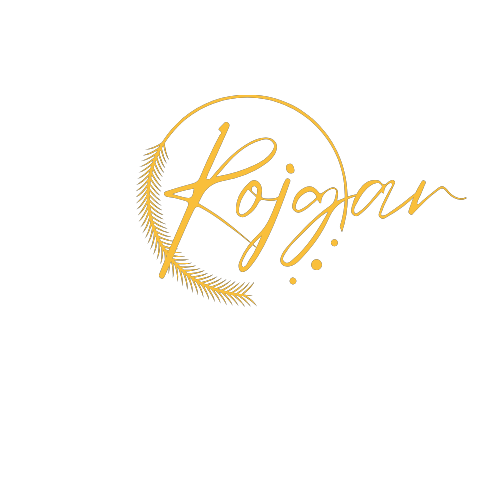
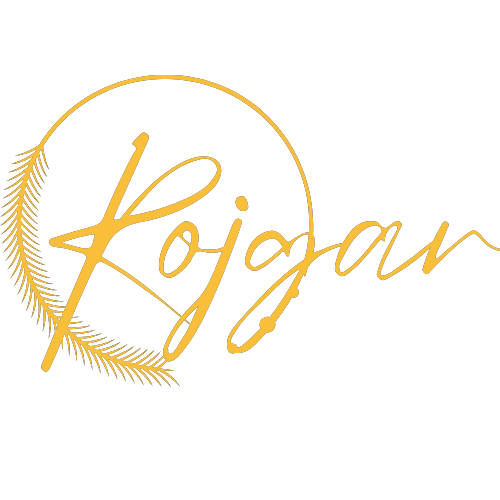
changed frontend

diff --git a/src/Components/Header.js b/src/Components/Header.js
@@ -1,45 +1,60 @@
-import React, { useContext, useEffect } from 'react'
-import './Css/Header.css'
-import { Link, useNavigate } from 'react-router-dom'
-import { loginContext } from '../App'
-import { get_data, remove_data } from '../Utils/services'
-import jwt_decode from 'jwt-decode'
+import React, { useContext, useEffect } from 'react';
+import './Css/Header.css';
+import { Link, useNavigate } from 'react-router-dom';
+import { loginContext } from '../App';
+import { get_data, remove_data } from '../Utils/services';
+import jwt_decode from 'jwt-decode';
+import logo from '../assets/log.png';
 
 function Header() {
-    const [user,setUser] = useContext(loginContext)
-    const navigate = useNavigate()
-    useEffect(()=>{
-        if(get_data()){
-            setUser(jwt_decode(get_data()))
-        }
-    },[])
-    const logoutuser = ()=>{
-        remove_data()
-        navigate('/login')
-    }
-  return (
-    <nav class="navbar navbar-expand-lg navbar-light ">
-        <div class="collapse navbar-collapse d-flex justify-content-between" id="navbarTogglerDemo01">
-            <a class="navbar-brand main-heading" style={{fontSize: '24px'}}>ROJGAR <img className='vector ml-2' src={require('../assets/log.png')} /></a>
-            <ul class="navbar-nav  mt-2 mt-lg-0">
-            <li class="nav-item mr-lg-3">
-                <Link to='/'><a class="nav-link" style={{fontSize: '20px'}} href="#">Home <span class="sr-only">(current)</span></a></Link>
-            </li>
-            <li class="nav-item mr-lg-3">
-                <Link to="/jobs"><a class="nav-link" style={{fontSize: '20px'}} href="#">Jobs</a></Link>
-            </li>
-            <li class="nav-item">
-                <Link to="/dashboard"><a class="nav-link" style={{fontSize: '20px'}} href="#">Dashboard</a></Link>
-            </li>
-            </ul>
-            {!user?
-                <Link to="/login"><button class="btn btnL my-2 my-sm-0" type="submit">Login</button></Link>
-            :
-                <button class="btn btnL my-2 my-sm-0" onClick={logoutuser} type="submit">Logout</button>
+    const [user, setUser] = useContext(loginContext);
+    const navigate = useNavigate();
+
+    useEffect(() => {
+        const fetchData = async () => {
+            if (get_data()) {
+                setUser(jwt_decode(get_data()));
             }
-        </div>
-    </nav>
-  )
+        };
+
+        fetchData(); // Call the fetchData function inside useEffect
+
+        // Include setUser and navigate in the dependency array
+    }, [setUser, navigate]); // Add setUser and navigate to the dependency array
+
+    const logoutUser = () => {
+        remove_data();
+        setUser(null);
+        navigate('/login');
+    };
+
+    return (
+        <nav className="navbar navbar-expand-lg navbar-light ">
+            <div className="collapse navbar-collapse d-flex justify-content-between" id="navbarTogglerDemo01">
+            <Link to="/" className="navbar-brand main-heading" style={{ fontSize: '24px' }}>
+                    ROJGAR <img className='vector ml-2' src={logo} alt='Logo' style={{ width: '100px', height: '100px' }} />
+                </Link>
+                <ul className="navbar-nav mt-2 mt-lg-0">
+                    <li className="nav-item mr-lg-3">
+                        <Link to="/" className="nav-link" style={{ fontSize: '20px' }}>Home</Link>
+                    </li>
+                    <li className="nav-item mr-lg-3">
+                        <Link to="/jobs" className="nav-link" style={{ fontSize: '20px' }}>Jobs</Link>
+                    </li>
+                    <li className="nav-item">
+                        <Link to="/dashboard" className="nav-link" style={{ fontSize: '20px' }}>Dashboard</Link>
+                    </li>
+                </ul>
+                {!user ? (
+                    <Link to="/login">
+                        <button className="btn btnL my-2 my-sm-0" type="submit">Login</button>
+                    </Link>
+                ) : (
+                    <button className="btn btnL my-2 my-sm-0" onClick={logoutUser} type="submit">Logout</button>
+                )}
+            </div>
+        </nav>
+    );
 }
 
-export default Header
+export default Header;

diff --git a/src/Components/Application.js b/src/Components/Application.js
@@ -1,43 +1,45 @@
-import React, { useState } from 'react'
-import './Css/Application.css'
-import { apply_job } from '../Utils/services'
+import React, { useState } from 'react';
+import './Css/Application.css';
+import { apply_job } from '../Utils/services';
 
 function Application(props) {
-    const [name, setName] = useState()
-    const [qualification, setQualification] = useState('BE/BTech')
-    const [yoe, setYoe] = useState()
-    const apply = ()=>{
-        if(name && qualification && yoe){
-            apply_job(props.data.title, props.data.description, name, qualification, yoe).then((results)=>{
-                if(results.status===200){
-                    props.setShow(false)
-                }
-            }).catch((err)=>{
-                console.log(err.message)
-            })
+    const [name, setName] = useState('');
+    const [qualification, setQualification] = useState('BE/BTech');
+    const [yoe, setYoe] = useState('');
+
+    const apply = () => {
+        if (name && qualification && yoe) {
+            apply_job(props.data.title, props.data.description, name, qualification, yoe)
+                .then((results) => {
+                    if (results.status === 200) {
+                        props.setShow(false);
+                    }
+                })
+                .catch((err) => {
+                    console.log(err.message);
+                });
         }
-    }
-  return (
-    <div className='application px-5 py-3'>
-        <img className='closebtn' onClick={()=>props.setShow(false)} src={require('../assets/close.png')} />
-        <p className=' bold'>{props.data.company}</p>
-        <div className='d-flex align-items-center justify-content-between'>
-            <div>
-                <h4>
-                    {props.data.title}
-                </h4>
+    };
+
+    return (
+        <div className='application px-5 py-3'>
+            <img className='closebtn' onClick={() => props.setShow(false)} src={require('../assets/close.png')} alt='Close' />
+            <p className='bold'>{props.data.company}</p>
+            {/* ... rest of your component code */}
+            <div className='d-flex align-items-center justify-content-between'>
+                <div>
+                    <h4>{props.data.title}</h4>
+                </div>
+                <div>
+                    <img src={require('../assets/google.png')} alt='Company Logo' />
+                </div>
             </div>
-            <div>
-                <img src={require('../assets/google.png')}/>
-            </div>
-        </div>
-        
         <div className='d-flex bottomDiv1 mx-auto mt-3 py-2'>
             <div>
                 <span className='bold'> {props.data.salary}/Month </span><br/>
                 {props.data.location}
             </div>
-            <div className=''> 
+            <div className=''>
                 <button className='btn btnA mr-2'>Full-time</button>
                 <button className='btn btnA'>On-site</button>
             </div>

diff --git a/src/Components/Feedback.js b/src/Components/Feedback.js
@@ -1,19 +1,22 @@
-import React from 'react'
-import './Css/Feedback.css'
+import React from 'react';
+import './Css/Feedback.css';
 
 function Feedback() {
-  return (
-    <div className='mt-5 feedback'>
-        <h1 className='text-center feedbackHeading'>Founders</h1>
-        <p className='text-center' style={{fontWeight: '600'}}>What Our Founders think</p>
-        <div className='py-3 feedbackDiv mx-auto d-flex flex-column align-items-center justify-content-center'>
-            <p className='happy'>Team Rojgar</p>
-            <img style={{width: '22em'}} src={require('../assets/CEO.png')} />
-            <p className='mb-0' style={{maxWidth: '250px',lineHeight:'2em'}}></p>
-            Welcome to ROJGAR - your gateway to a world  opportunities. We're dedicated to helping you find the perfect job that aligns with your skills and aspirations. With a user-friendly interface, an extensive job database, and valuable career resources, we're here to support your career journey. Feel safe and supported with our strong commitment to privacy and a helpful community. Join us at ROJGAR and let's make your career dreams a reality. Welcome to a world of endless possibilities.
+    return (
+        <div className='mt-5 feedback'>
+            <h1 className='text-center feedbackHeading'>Founders</h1>
+            <p className='text-center' style={{ fontWeight: '600', fontSize: '18px' }}>What Our Founders Think</p>
+            <div className='py-3 feedbackDiv mx-auto d-flex flex-column align-items-center justify-content-center'>
+                <p className='happy' style={{ fontSize: '24px', marginBottom: '10px' }}>Team Rojgar</p>
+                <img style={{ width: '400px', borderRadius: '50%', marginBottom: '20px' }} src={require('../assets/CEO.png')} alt='CEO' />
+                <div className='feedbackText'>
+                    <p className='mb-4' style={{ maxWidth: '400px', textAlign: 'justify', lineHeight: '1.5' }}>
+                        Welcome to ROJGAR - your gateway to a world of opportunities. We're dedicated to helping you find the perfect job that aligns with your skills and aspirations. With our user-friendly interface, an extensive job database, and valuable career resources, we're here to support your career journey. Feel safe and supported with our strong commitment to privacy and a helpful community. Join us at ROJGAR, and let's make your career dreams a reality. Welcome to a world of endless possibilities.
+                    </p>
+                </div>
+            </div>
         </div>
-    </div>
-  )
+    );
 }
 
-export default Feedback
+export default Feedback;

diff --git a/src/Components/Footer.js b/src/Components/Footer.js
@@ -1,21 +1,23 @@
 import React from 'react'
 import './Css/Footer.css'
+import logo from '../assets/log.png';
 
 function Footer() {
   return (
     <div className='footer mx-auto pb-2 mb-2'>
         <div className='row mx-auto d-flex  pt-5'>
             <div className='col-lg-6 col-md-12 flex-column'>
-                <div className='col-12 footer-div1'>
-                    <h3 className='main-heading d-flex  align-items-center'>ROJGAR <img className='vector ml-2' src={require('../assets/log.png')} /></h3>
-                    <div className='footer-text'>
-                    Rojgar is one of the best job portal that helps in empowering your career journey with seamless connections and limitless opportunities
-                    </div>
+            <div className='col-12 footer-div1' style={{ textAlign: 'justify' }}>
+            <h3 className='main-heading d-flex align-items-center'>ROJGAR <img className='vector ml-2' src={logo} alt={logo} style={{ width: '100px', height: '100px' }} /></h3>
+            <div className='footer-text'>
+                Rojgar is one of the best job portals that helps in empowering your career journey with seamless connections and limitless opportunities.
+            </div>
                     <div className='mt-3'>
-                        <img className='vectorImg mr-2' src={require('../assets/instagram.png')} />
-                        <img className='vectorImg mr-2' src={require('../assets/fb.png')} />
-                        <img className='vectorImg' src={require('../assets/twitter.png')} />
-                    </div>
+    <img className='vectorImg mr-2' src={require('../assets/instagram.png')} alt='Instagram' />
+    <img className='vectorImg mr-2' src={require('../assets/fb.png')} alt='Facebook' />
+    <img className='vectorImg' src={require('../assets/twitter.png')} alt='Twitter' />
+</div>
+
                 </div>
             </div>
             <div className='col-lg-6 col-md-12 d-flex justify-content-center'>

diff --git a/src/Components/Footer2.js b/src/Components/Footer2.js
@@ -1,5 +1,6 @@
 import React from 'react'
 import './Css/Footer2.css'
+import logo from '../assets/log.png';
 
 function Footer2() {
   return (
@@ -10,7 +11,9 @@ function Footer2() {
             <button className='mr-3 footerbtn'>Login</button>
             <button className='footerbtn'>Sign Up</button>
         </div>
-        <p className='main-heading d-flex  align-items-center mb-2 mt-4'>ROJGAR <img className='vector ml-2' src={require('../assets/log.png')} /></p>
+        <p className='main-heading d-flex align-items-center mb-2 mt-4'>
+            ROJGAR <img className='vector ml-2' src={logo} alt='Logo' style={{ width: '100px', height: '100px' }} />
+        </p>
     </div>
   )
 }
